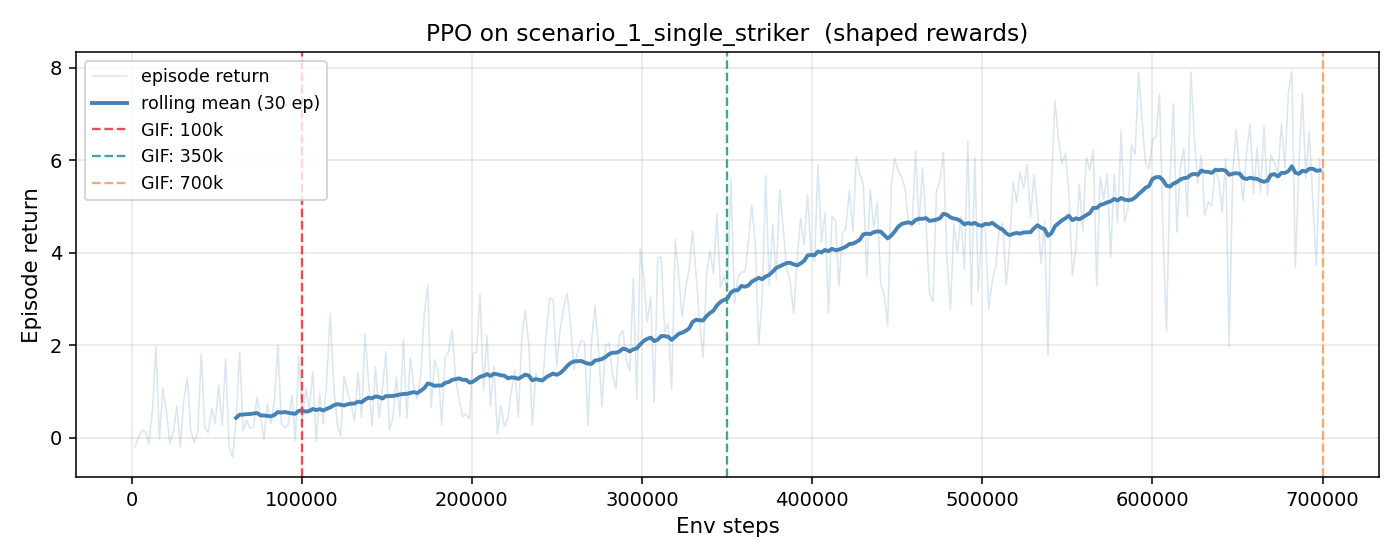
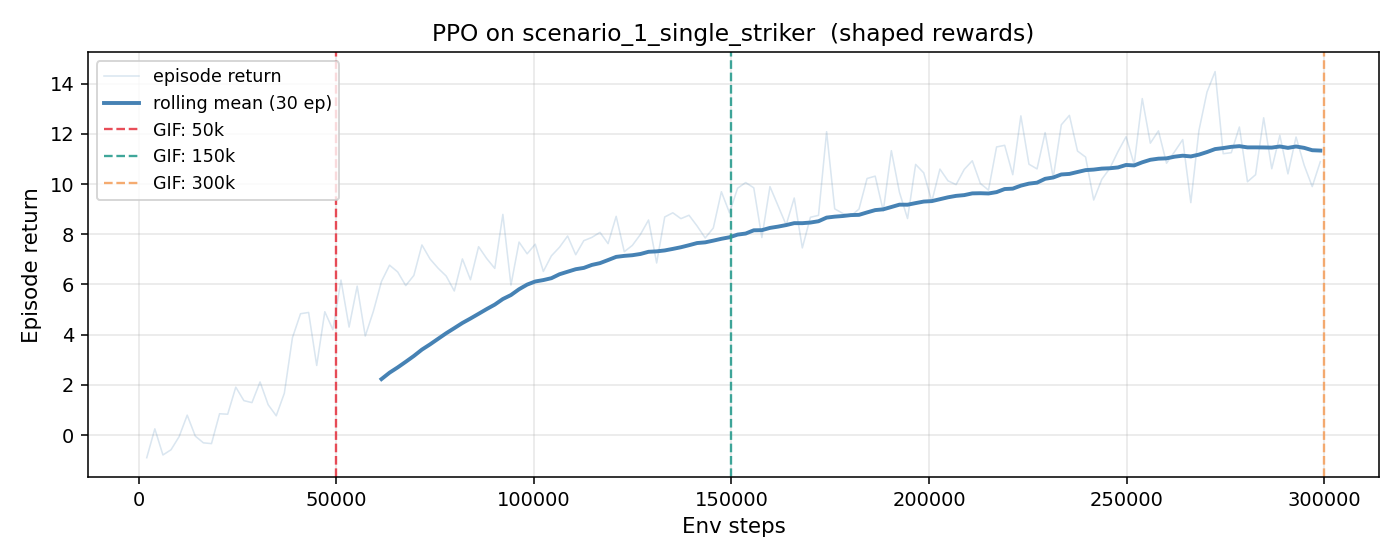
Speed up PPO convergence: 700k→300k steps, return 5.7→11.5
Three fixes:
- ppo.py: log_std init -0.5 instead of 0 (std≈0.6, tighter exploration)
- make_demo_gifs.py: disable randomize_attack_direction for stage-1
  (removes canonical-obs / non-canonical-action mismatch, ×3 speedup)
- make_demo_gifs.py: APPROACH_SCALE 0.4→3.0 (stronger ball-approach signal)

TOTAL_STEPS 700k→300k, capture milestones updated to 50k/150k/300k.
Updated learning_curve.png.

diff --git a/make_demo_gifs.py b/make_demo_gifs.py
@@ -2,9 +2,9 @@
 
 Produces:
   gifs/stage_random.gif     — untrained (random) agent
-  gifs/stage_100k.gif       — after 100 000 env steps
-  gifs/stage_350k.gif       — after 350 000 env steps
-  gifs/stage_700k.gif       — after 700 000 env steps
+  gifs/stage_50k.gif        — after  50 000 env steps
+  gifs/stage_150k.gif       — after 150 000 env steps
+  gifs/stage_300k.gif       — after 300 000 env steps
   gifs/learning_curve.png   — episode return vs env steps
 """
 
@@ -32,7 +32,7 @@ from football_rl.training.ppo import PPOAgent, PPOConfig
 # ── training config ───────────────────────────────────────────────────────────
 
 SCENARIO      = "scenario_1_single_striker"
-TOTAL_STEPS   = 700_000
+TOTAL_STEPS   = 300_000
 ROLLOUT_STEPS = 2048
 GIF_FPS       = 18
 GIF_W, GIF_H  = 480, 320
@@ -42,9 +42,9 @@ CKPT_DIR      = Path("checkpoints")
 # (milestone_step → label)
 CAPTURE_AT = {
     0:       "random",
-    100_000: "100k",
-    350_000: "350k",
-    700_000: "700k",
+    50_000:  "50k",
+    150_000: "150k",
+    300_000: "300k",
 }
 
 
@@ -53,13 +53,11 @@ CAPTURE_AT = {
 def make_training_config():
     """Custom config with amplified dense rewards so PPO gets a useful signal."""
     cfg = make_default_config()
-    # ball_progress default scale is 0.04/120 ≈ 0.00033 per unit → increase 50×
-    cfg.rewards.ball_progress_scale = 2.0
-    # touch reward: default 0.05 → 10×
-    cfg.rewards.touch_reward = 0.5
-    # goal reward stays at 5.0
-    # kick-only: ball never sticks to player, agent must kick
-    cfg.ball.allow_dribble = False
+    cfg.rewards.ball_progress_scale = 2.0   # default 0.04 → ×50
+    cfg.rewards.touch_reward = 0.5          # default 0.05 → ×10
+    cfg.ball.allow_dribble = False          # kick-only
+    # fix attack direction for stage-1: removes canonical/action mismatch (×3 speedup)
+    cfg.randomization.randomize_attack_direction = False
     return cfg
 
 
@@ -74,7 +72,7 @@ class BallApproachWrapper:
         => actual_rel_x = obs[15] * 60,  actual_rel_y = obs[16] * 40
     """
 
-    APPROACH_SCALE = 0.4   # reward per unit of progress toward ball (normalised)
+    APPROACH_SCALE = 3.0   # reward per unit of progress toward ball (was 0.4)
 
     def __init__(self, env):
         self.env = env
@@ -125,6 +123,7 @@ def make_train_env():
 def make_render_env():
     cfg = make_default_config()
     cfg.ball.allow_dribble = False
+    cfg.randomization.randomize_attack_direction = False
     return FootballGymEnv(
         SCENARIO,
         config=cfg,

diff --git a/football_rl/training/ppo.py b/football_rl/training/ppo.py
@@ -45,8 +45,9 @@ class ActorCriticNet(nn.Module):
         )
         self.policy_head = nn.Linear(hidden_dim, action_dim)
         self.value_head = nn.Linear(hidden_dim, 1)
-        # Learnable log std, independent of the observation
-        self.log_std = nn.Parameter(torch.zeros(action_dim))
+        # Learnable log std, independent of the observation.
+        # Init at -0.5 (std≈0.6) for more directed early exploration.
+        self.log_std = nn.Parameter(torch.full((action_dim,), -0.5))
 
         self._init_weights()
 
